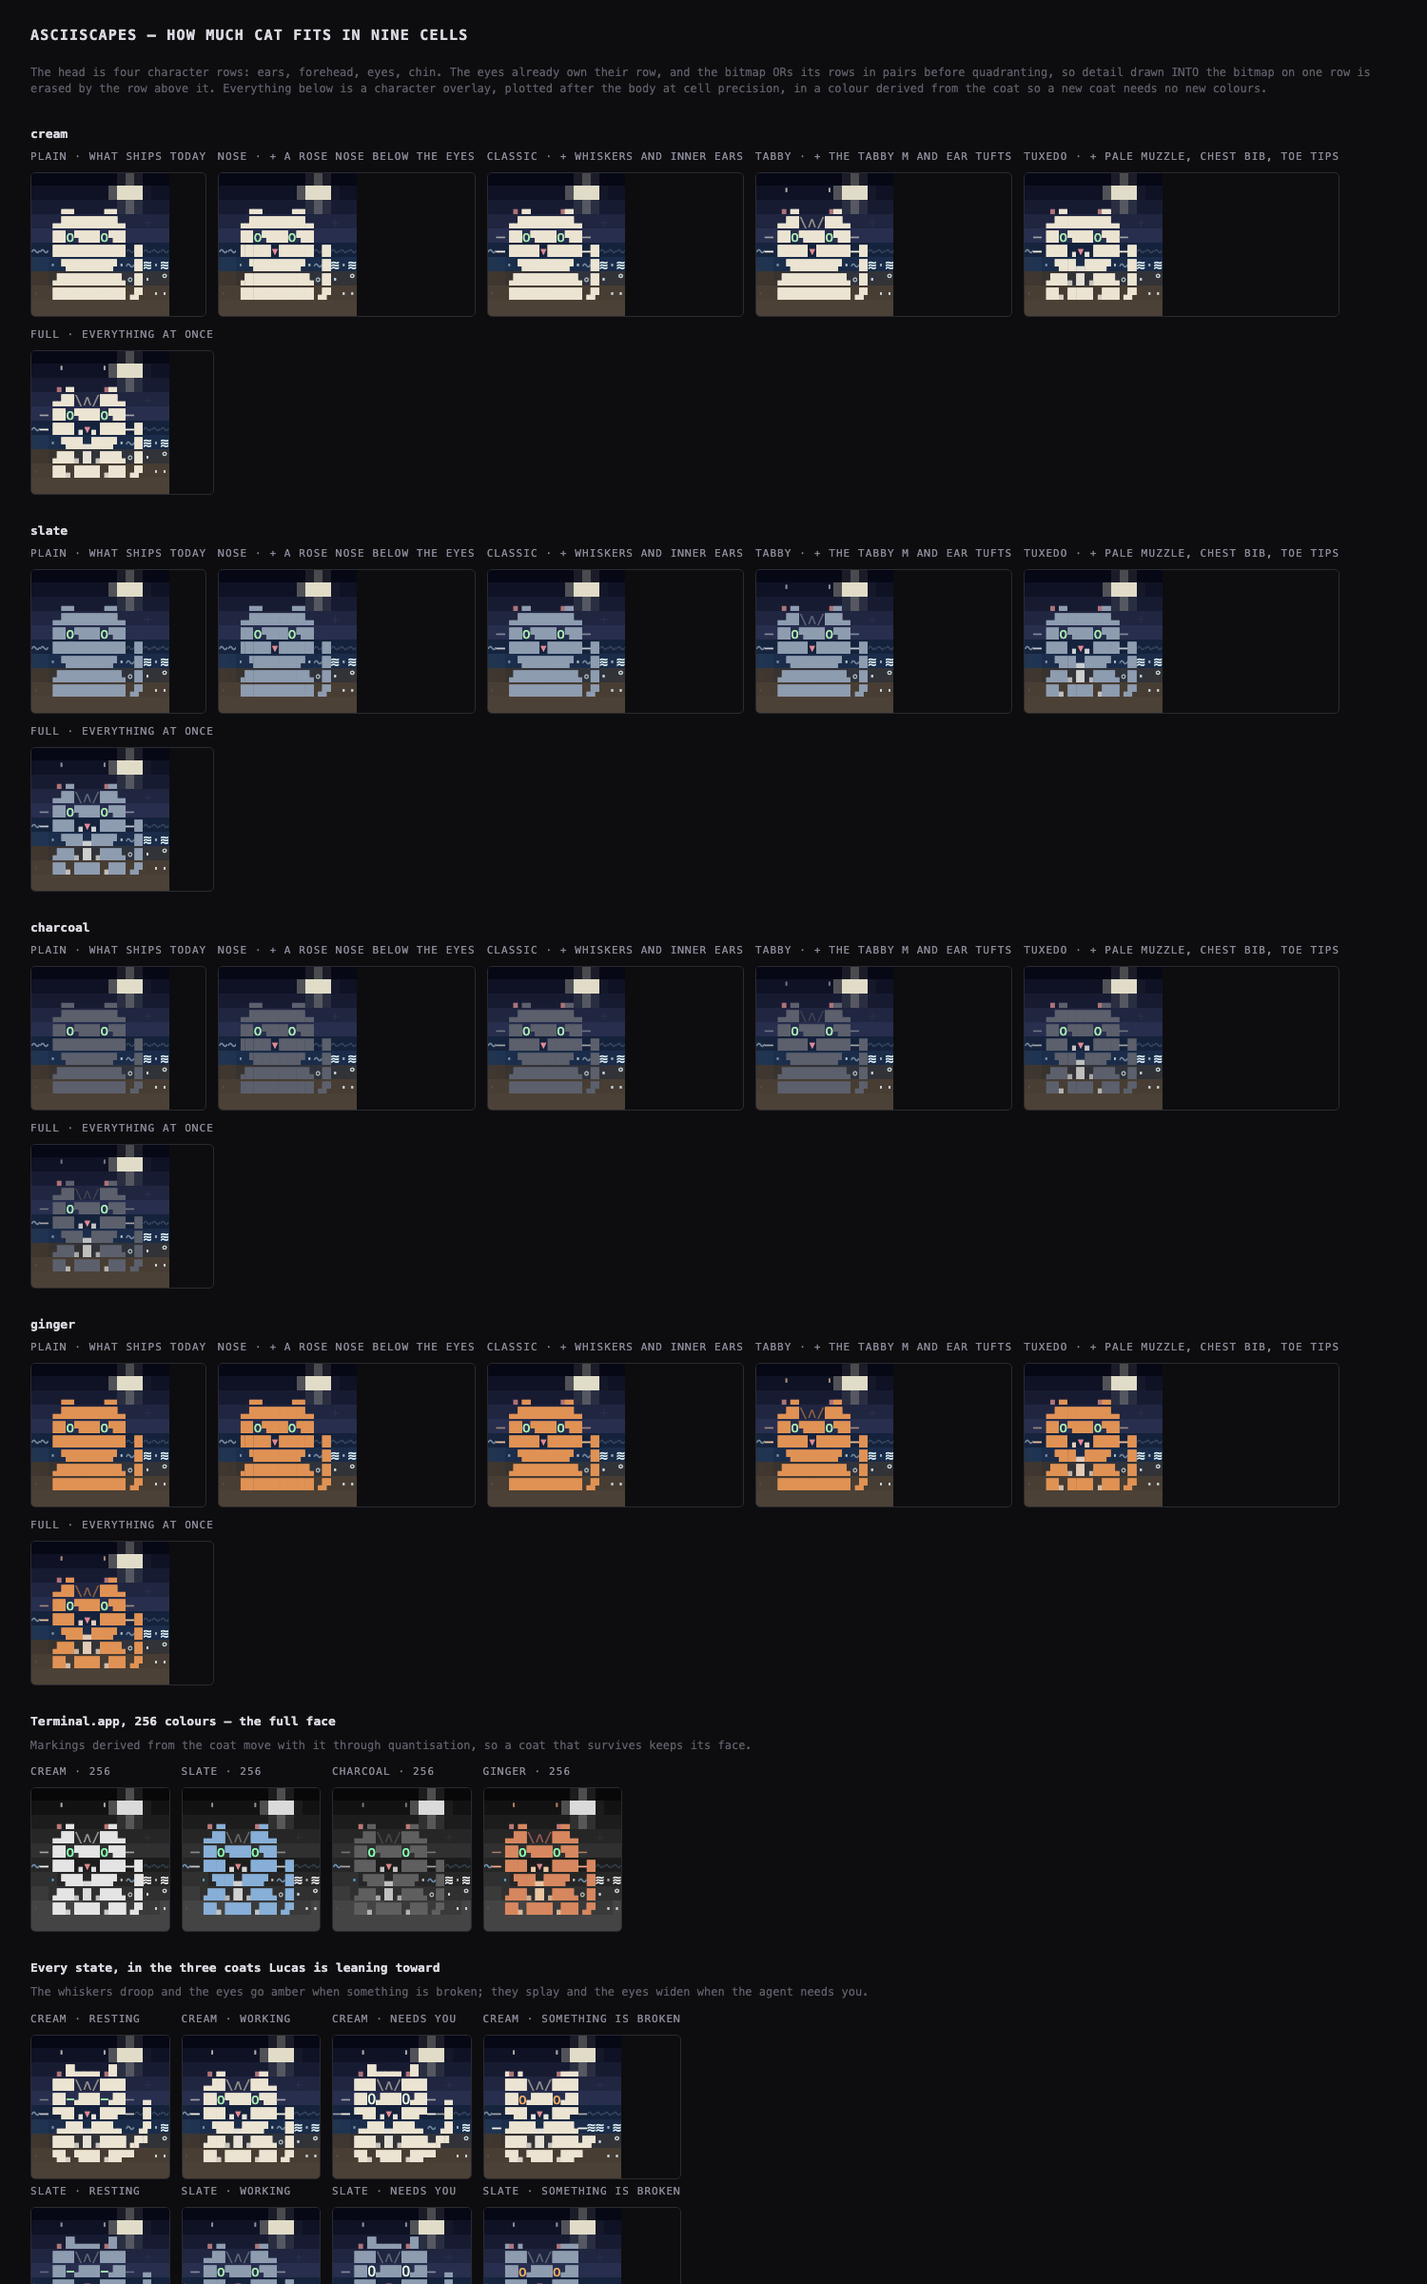
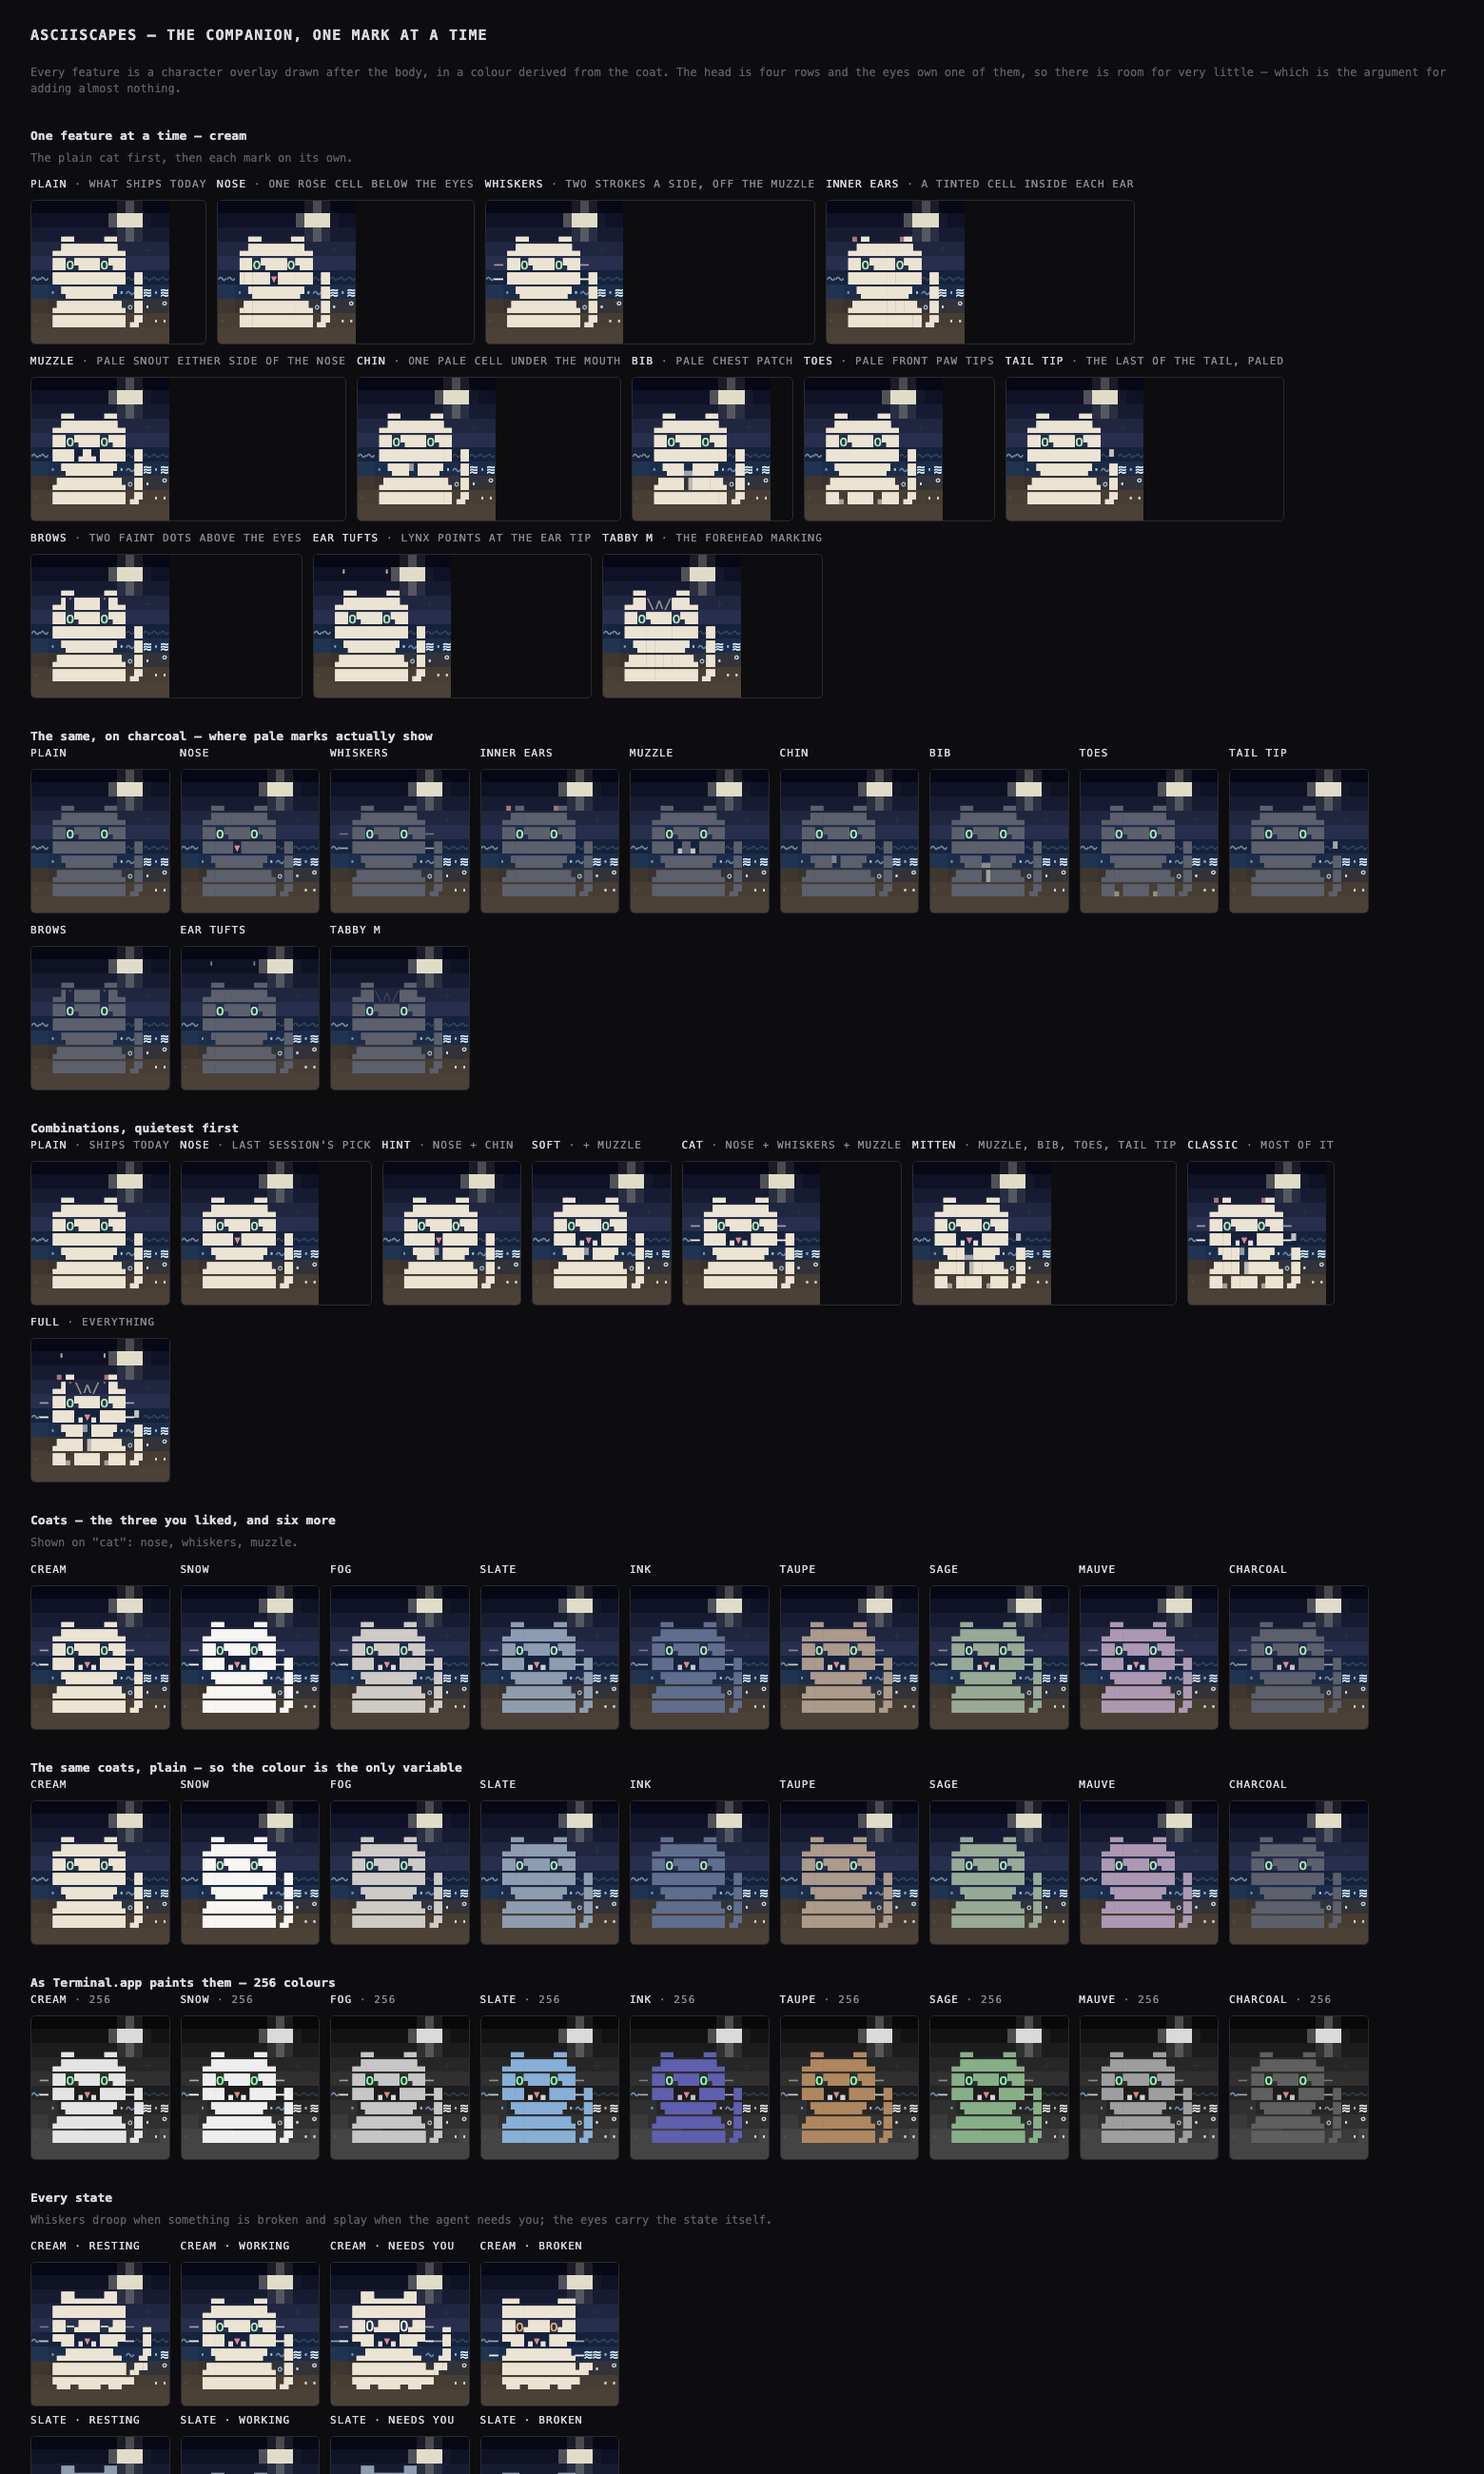
Quieter marks, each shown on its own
Lucas is leaning toward plain or nose-only, so the sheet is rebuilt around
subtlety instead of feature count, and every feature is now shown ISOLATED
before anything is combined -- which is what he asked for and is also the only
honest way to judge a mark that costs one cell.

The bib and toes are re-attempted rather than dropped. The old bib was four
cells and read as something the cat was WEARING; it is two now, narrowing, at
0.6 alpha, and on a pale coat it barely registers -- which is the point. Toes
dropped from 0.8 to 0.55.

Three new quiet features: a chin dot, a paled tail tip, and faint brow dots
where a cat's whisker-brows sit. Combinations run from almost-nothing upward:
plain, nose, hint, soft, cat, mitten, classic, full.

Six new coats beside the three that survived: snow, fog, ink, taupe, sage,
mauve. All are shown plain as well as marked, so the colour can be judged with
nothing else moving.

Claude-Session: https://claude.ai/code/session_01AU2ieNpECMF7S4go2CwcDX

diff --git a/faces.go b/faces.go
@@ -32,59 +32,89 @@ func facePage(seed int64) string {
 	var b strings.Builder
 	b.WriteString(`<style>
 	.win{border:1px solid #2a2a32;border-radius:5px;overflow:hidden}
-	.row{display:flex;gap:12px;flex-wrap:wrap;align-items:flex-start;margin-bottom:6px}
+	.row{display:flex;gap:11px;flex-wrap:wrap;align-items:flex-start;margin-bottom:8px}
 	.col{display:flex;flex-direction:column;gap:4px}
 	.lbl{font:11px ui-monospace,monospace;color:#8a8a99}
-	h2{font:600 13px ui-monospace,monospace;color:#d8d8e0;margin:30px 0 10px}
+	.lbl b{color:#d8d8e0;font-weight:500}
+	h2{font:600 13px ui-monospace,monospace;color:#d8d8e0;margin:32px 0 4px}
+	h2+p{margin-top:4px}
 	</style>`)
-	b.WriteString(`<h1>asciiscapes &mdash; how much cat fits in nine cells</h1>`)
-	b.WriteString(`<p class="nt">The head is four character rows: ears, forehead, eyes, chin. ` +
-		`The eyes already own their row, and the bitmap ORs its rows in pairs before quadranting, ` +
-		`so detail drawn INTO the bitmap on one row is erased by the row above it. Everything ` +
-		`below is a character overlay, plotted after the body at cell precision, in a colour ` +
-		`derived from the coat so a new coat needs no new colours.</p>`)
+	b.WriteString(`<h1>asciiscapes &mdash; the companion, one mark at a time</h1>`)
+	b.WriteString(`<p class="nt">Every feature is a character overlay drawn after the body, in a ` +
+		`colour derived from the coat. The head is four rows and the eyes own one of them, so ` +
+		`there is room for very little &mdash; which is the argument for adding almost nothing.</p>`)
 
-	notes := map[string]string{
-		"plain":   "what ships today",
-		"nose":    "+ a rose nose below the eyes",
-		"classic": "+ whiskers and inner ears",
-		"tabby":   "+ the tabby M and ear tufts",
-		"tuxedo":  "+ pale muzzle, chest bib, toe tips",
-		"full":    "everything at once",
+	cell := func(label, note, body string) {
+		fmt.Fprintf(&b, `<div class="col"><div class="lbl"><b>%s</b>%s</div><div class="win">%s</div></div>`,
+			label, note, body)
 	}
 
-	for _, coat := range companion.CoatOrder {
-		fmt.Fprintf(&b, `<h2>%s</h2><div class="row">`, coat)
-		for _, k := range companion.FaceOrder {
-			fmt.Fprintf(&b, `<div class="col"><div class="lbl">%s &middot; %s</div><div class="win">%s</div></div>`,
-				k, notes[k],
-				portrait(companion.Faces[k], companion.Coats[coat], companion.Working, term.ProfileTrueColor, 3.1))
-		}
-		b.WriteString(`</div>`)
-	}
-
-	b.WriteString(`<h2>Terminal.app, 256 colours &mdash; the full face</h2>`)
-	b.WriteString(`<p class="nt">Markings derived from the coat move with it through quantisation, ` +
-		`so a coat that survives keeps its face.</p><div class="row">`)
-	for _, coat := range companion.CoatOrder {
-		fmt.Fprintf(&b, `<div class="col"><div class="lbl">%s &middot; 256</div><div class="win">%s</div></div>`,
-			coat, portrait(companion.Faces["full"], companion.Coats[coat], companion.Working, term.Profile256, 3.1))
+	// Each feature alone, so it can be judged without anything else competing.
+	b.WriteString(`<h2>One feature at a time &mdash; cream</h2>`)
+	b.WriteString(`<p class="nt">The plain cat first, then each mark on its own.</p><div class="row">`)
+	for _, s := range companion.Singles {
+		cell(s.Key, " &middot; "+s.Note,
+			portrait(s.Face, companion.Coats["cream"], companion.Working, term.ProfileTrueColor, 3.1))
 	}
 	b.WriteString(`</div>`)
 
-	b.WriteString(`<h2>Every state, in the three coats Lucas is leaning toward</h2>`)
-	b.WriteString(`<p class="nt">The whiskers droop and the eyes go amber when something is ` +
-		`broken; they splay and the eyes widen when the agent needs you.</p>`)
+	b.WriteString(`<h2>The same, on charcoal &mdash; where pale marks actually show</h2>`)
+	b.WriteString(`<div class="row">`)
+	for _, s := range companion.Singles {
+		cell(s.Key, "",
+			portrait(s.Face, companion.Coats["charcoal"], companion.Working, term.ProfileTrueColor, 3.1))
+	}
+	b.WriteString(`</div>`)
+
+	notes := map[string]string{
+		"plain":   "ships today",
+		"nose":    "last session's pick",
+		"hint":    "nose + chin",
+		"soft":    "+ muzzle",
+		"cat":     "nose + whiskers + muzzle",
+		"mitten":  "muzzle, bib, toes, tail tip",
+		"classic": "most of it",
+		"full":    "everything",
+	}
+
+	b.WriteString(`<h2>Combinations, quietest first</h2><div class="row">`)
+	for _, k := range companion.FaceOrder {
+		cell(k, " &middot; "+notes[k],
+			portrait(companion.Faces[k], companion.Coats["cream"], companion.Working, term.ProfileTrueColor, 3.1))
+	}
+	b.WriteString(`</div>`)
+
+	b.WriteString(`<h2>Coats &mdash; the three you liked, and six more</h2>`)
+	b.WriteString(`<p class="nt">Shown on "cat": nose, whiskers, muzzle.</p><div class="row">`)
+	for _, coat := range companion.CoatOrder {
+		cell(coat, "", portrait(companion.Faces["cat"], companion.Coats[coat], companion.Working, term.ProfileTrueColor, 3.1))
+	}
+	b.WriteString(`</div>`)
+
+	b.WriteString(`<h2>The same coats, plain &mdash; so the colour is the only variable</h2><div class="row">`)
+	for _, coat := range companion.CoatOrder {
+		cell(coat, "", portrait(companion.Faces["plain"], companion.Coats[coat], companion.Working, term.ProfileTrueColor, 3.1))
+	}
+	b.WriteString(`</div>`)
+
+	b.WriteString(`<h2>As Terminal.app paints them &mdash; 256 colours</h2><div class="row">`)
+	for _, coat := range companion.CoatOrder {
+		cell(coat, " &middot; 256", portrait(companion.Faces["cat"], companion.Coats[coat], companion.Working, term.Profile256, 3.1))
+	}
+	b.WriteString(`</div>`)
+
+	b.WriteString(`<h2>Every state</h2>`)
+	b.WriteString(`<p class="nt">Whiskers droop when something is broken and splay when the agent ` +
+		`needs you; the eyes carry the state itself.</p>`)
 	for _, coat := range []string{"cream", "slate", "charcoal"} {
 		b.WriteString(`<div class="row">`)
 		for _, st := range []struct {
 			s companion.State
 			n string
 		}{{companion.Resting, "resting"}, {companion.Working, "working"},
-			{companion.NeedsYou, "needs you"}, {companion.Worried, "something is broken"}} {
-			fmt.Fprintf(&b, `<div class="col"><div class="lbl">%s &middot; %s</div><div class="win">%s</div></div>`,
-				coat, st.n,
-				portrait(companion.Faces["full"], companion.Coats[coat], st.s, term.ProfileTrueColor, 3.1))
+			{companion.NeedsYou, "needs you"}, {companion.Worried, "broken"}} {
+			cell(coat+" · "+st.n, "",
+				portrait(companion.Faces["cat"], companion.Coats[coat], st.s, term.ProfileTrueColor, 3.1))
 		}
 		b.WriteString(`</div>`)
 	}

diff --git a/internal/companion/face.go b/internal/companion/face.go
@@ -32,31 +32,68 @@ type Face struct {
 	Bib bool
 	// Toes are the pale tips of the front paws.
 	Toes bool
+	// Chin is a single pale cell under the muzzle -- the smallest mark on the
+	// sheet, and the one that costs the least.
+	Chin bool
+	// TailTip pales the last of the tail, which is a marking a lot of cats
+	// carry and which nothing else on the body competes with.
+	TailTip bool
+	// Brows are two faint dots above the eyes, where a cat's whisker-brows sit.
+	Brows bool
 }
 
-// Faces are the presets worth comparing. Each adds to the one before it.
+// Singles are one feature at a time, on the plain cat, so each can be judged
+// on its own before anything is combined.
+var Singles = []struct {
+	Key  string
+	Face Face
+	Note string
+}{
+	{"plain", Face{}, "what ships today"},
+	{"nose", Face{Nose: true}, "one rose cell below the eyes"},
+	{"whiskers", Face{Whiskers: true}, "two strokes a side, off the muzzle"},
+	{"inner ears", Face{InnerEars: true}, "a tinted cell inside each ear"},
+	{"muzzle", Face{Muzzle: true}, "pale snout either side of the nose"},
+	{"chin", Face{Chin: true}, "one pale cell under the mouth"},
+	{"bib", Face{Bib: true}, "pale chest patch"},
+	{"toes", Face{Toes: true}, "pale front paw tips"},
+	{"tail tip", Face{TailTip: true}, "the last of the tail, paled"},
+	{"brows", Face{Brows: true}, "two faint dots above the eyes"},
+	{"ear tufts", Face{EarTufts: true}, "lynx points at the ear tip"},
+	{"tabby M", Face{Brow: true}, "the forehead marking"},
+}
+
+// Faces are combinations, quietest first.
 var Faces = map[string]Face{
-	"plain":   {},
-	"nose":    {Nose: true},
-	"classic": {Nose: true, Whiskers: true, InnerEars: true},
-	"tabby":   {Nose: true, Whiskers: true, InnerEars: true, Brow: true, EarTufts: true},
-	"tuxedo":  {Nose: true, Whiskers: true, InnerEars: true, Muzzle: true, Bib: true, Toes: true},
-	"full": {Nose: true, Whiskers: true, InnerEars: true, EarTufts: true,
-		Brow: true, Muzzle: true, Bib: true, Toes: true},
+	"plain":  {},
+	"nose":   {Nose: true},
+	"hint":   {Nose: true, Chin: true},
+	"soft":   {Nose: true, Muzzle: true, Chin: true},
+	"cat":    {Nose: true, Whiskers: true, Muzzle: true},
+	"mitten": {Nose: true, Muzzle: true, Bib: true, Toes: true, TailTip: true},
+	"classic": {Nose: true, Whiskers: true, InnerEars: true, Muzzle: true, Chin: true,
+		Bib: true, Toes: true, TailTip: true},
+	"full": {Nose: true, Whiskers: true, InnerEars: true, EarTufts: true, Brows: true,
+		Brow: true, Muzzle: true, Chin: true, Bib: true, Toes: true, TailTip: true},
 }
 
-// FaceOrder is the reading order for the study: a build-up, not a grid.
-var FaceOrder = []string{"plain", "nose", "classic", "tabby", "tuxedo", "full"}
+// FaceOrder is the reading order: a build-up from almost nothing.
+var FaceOrder = []string{"plain", "nose", "hint", "soft", "cat", "mitten", "classic", "full"}
 
 // Coats are the body colours.
 var Coats = map[string]term.RGB{
-	"cream":    {R: 236, G: 228, B: 210},
+	"cream":    {R: 236, G: 228, B: 210}, // what ships today
+	"snow":     {R: 248, G: 246, B: 242},
+	"fog":      {R: 206, G: 202, B: 198},
 	"slate":    {R: 142, G: 156, B: 176},
+	"ink":      {R: 96, G: 110, B: 142},
+	"taupe":    {R: 172, G: 154, B: 138},
+	"sage":     {R: 150, G: 170, B: 150},
+	"mauve":    {R: 172, G: 152, B: 178},
 	"charcoal": {R: 92, G: 96, B: 108},
-	"ginger":   {R: 224, G: 146, B: 84},
 }
 
-var CoatOrder = []string{"cream", "slate", "charcoal", "ginger"}
+var CoatOrder = []string{"cream", "snow", "fog", "slate", "ink", "taupe", "sage", "mauve", "charcoal"}
 
 var (
 	noseCol  = term.RGB{R: 226, G: 138, B: 148} // muted rose
@@ -145,16 +182,30 @@ func (c *Cat) drawFace(l *canvas.Layer, x, y int, f Face, st State) {
 		}
 	}
 
-	// Two rows, narrowing, so the bib reads as fur rather than a rectangle.
+	// The bib is deliberately smaller than it was. A four-cell block read as a
+	// bib worn by the cat rather than as its own chest; two cells narrowing to
+	// one reads as fur, and on a pale coat it should barely register at all.
 	if f.Bib {
-		l.Plot(at(4), y+4, '▄', pale, 0.9)
-		l.Plot(at(3), y+5, '▖', pale, 0.75)
-		l.Plot(at(4), y+5, '█', pale, 0.9)
-		l.Plot(at(5), y+5, '▗', pale, 0.75)
+		l.Plot(at(4), y+4, '▄', pale, 0.6)
+		l.Plot(at(4), y+5, '▐', pale, 0.7)
 	}
 
 	if f.Toes {
-		l.Plot(at(2), y+6, '▖', pale, 0.8)
-		l.Plot(at(6), y+6, '▗', pale, 0.8)
+		l.Plot(at(2), y+6, '▖', pale, 0.55)
+		l.Plot(at(6), y+6, '▗', pale, 0.55)
+	}
+
+	if f.Chin {
+		l.Plot(at(4), y+4, '▘', pale, 0.55)
+	}
+
+	// The tail sweeps up on the far side of the body, two cells past the hip.
+	if f.TailTip {
+		l.Plot(at(10), y+3, '▘', pale, 0.7)
+	}
+
+	if f.Brows {
+		l.Plot(at(2), y+1, '˙', light, 0.5)
+		l.Plot(at(6), y+1, '˙', light, 0.5)
 	}
 }
